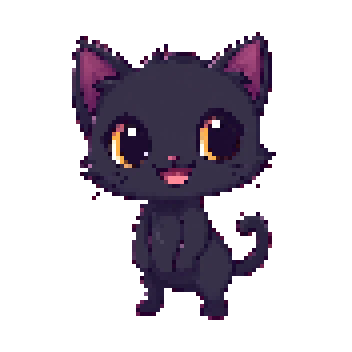
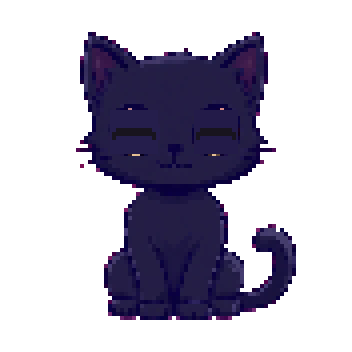
feat(nim): 한밤이 표정 통일 + 새 앱 아이콘 + 스테이지1 지는 돌 표시
- 표정 6종을 default(순둥이 앉은 자세) 베이스로 통일 — 눈/이모트만 변경
  (happy=행복 감은눈, sleepy=반눈+zZ, smug=새침 반눈, angry=뾰로통+뿅, surprised=왕눈+물방울)
- 런처 아이콘 교체: 세피아 스포트라이트 + 한밤이 + 골드 픽셀 테두리 (512 원본 + mipmap 5종)
- 스테이지1: 마지막에 남는 돌(가져가면 지는 돌)을 빨간 돌로 표시 — 튜토리얼 시각 학습

Changed region(s): [[0.1875, 0.0938, 0.8438, 0.9062]]

diff --git a/math_game_flutter/lib/screens/game_screen.dart b/math_game_flutter/lib/screens/game_screen.dart
@@ -1455,11 +1455,15 @@ class _GameScreenState extends State<GameScreen> with TickerProviderStateMixin {
                       children: List.generate(len, (i) {
                         final bool selected =
                             isSelRow && i >= len - _selectedCount;
+                        // (스테이지1 튜토리얼) 마지막에 남는 돌 = 가져가면 지는 돌.
+                        // 빨간 돌로 표시해 "저건 상대에게 남겨야 한다"를 눈으로 배우게.
+                        final bool danger = widget.stageNumber == 1 && i == 0;
                         return _Stone(
                           cell: cell,
                           size: stone,
                           selected: selected,
                           leaving: _leaving && selected,
+                          danger: danger,
                           onTap: () => _selectStone(rowIdx, i),
                         );
                       }),
@@ -1853,12 +1857,14 @@ class _Stone extends StatelessWidget {
   final double size;
   final bool selected;
   final bool leaving;
+  final bool danger; // 가져가면 지는 돌 (스테이지1 학습용) — 빨간 돌
   final VoidCallback? onTap;
   const _Stone({
     this.cell = 44,
     this.size = 34,
     required this.selected,
     required this.leaving,
+    this.danger = false,
     this.onTap,
   });
 
@@ -1876,10 +1882,16 @@ class _Stone extends StatelessWidget {
           radius: 0.95,
           colors: selected
               ? const [Color(0xFFF0D49A), Color(0xFFC9A24B)]
-              : const [Color(0xFFD9C7A0), Color(0xFF8C7A55)],
+              : danger
+                  ? const [Color(0xFFCC7261), Color(0xFF9B3B2E)]
+                  : const [Color(0xFFD9C7A0), Color(0xFF8C7A55)],
         ),
         border: Border.all(
-          color: selected ? const Color(0xFF8A6A20) : const Color(0xFF5C4E33),
+          color: selected
+              ? const Color(0xFF8A6A20)
+              : danger
+                  ? const Color(0xFF5E1F15)
+                  : const Color(0xFF5C4E33),
           width: selected ? 2 : 1.5,
         ),
         boxShadow: [
